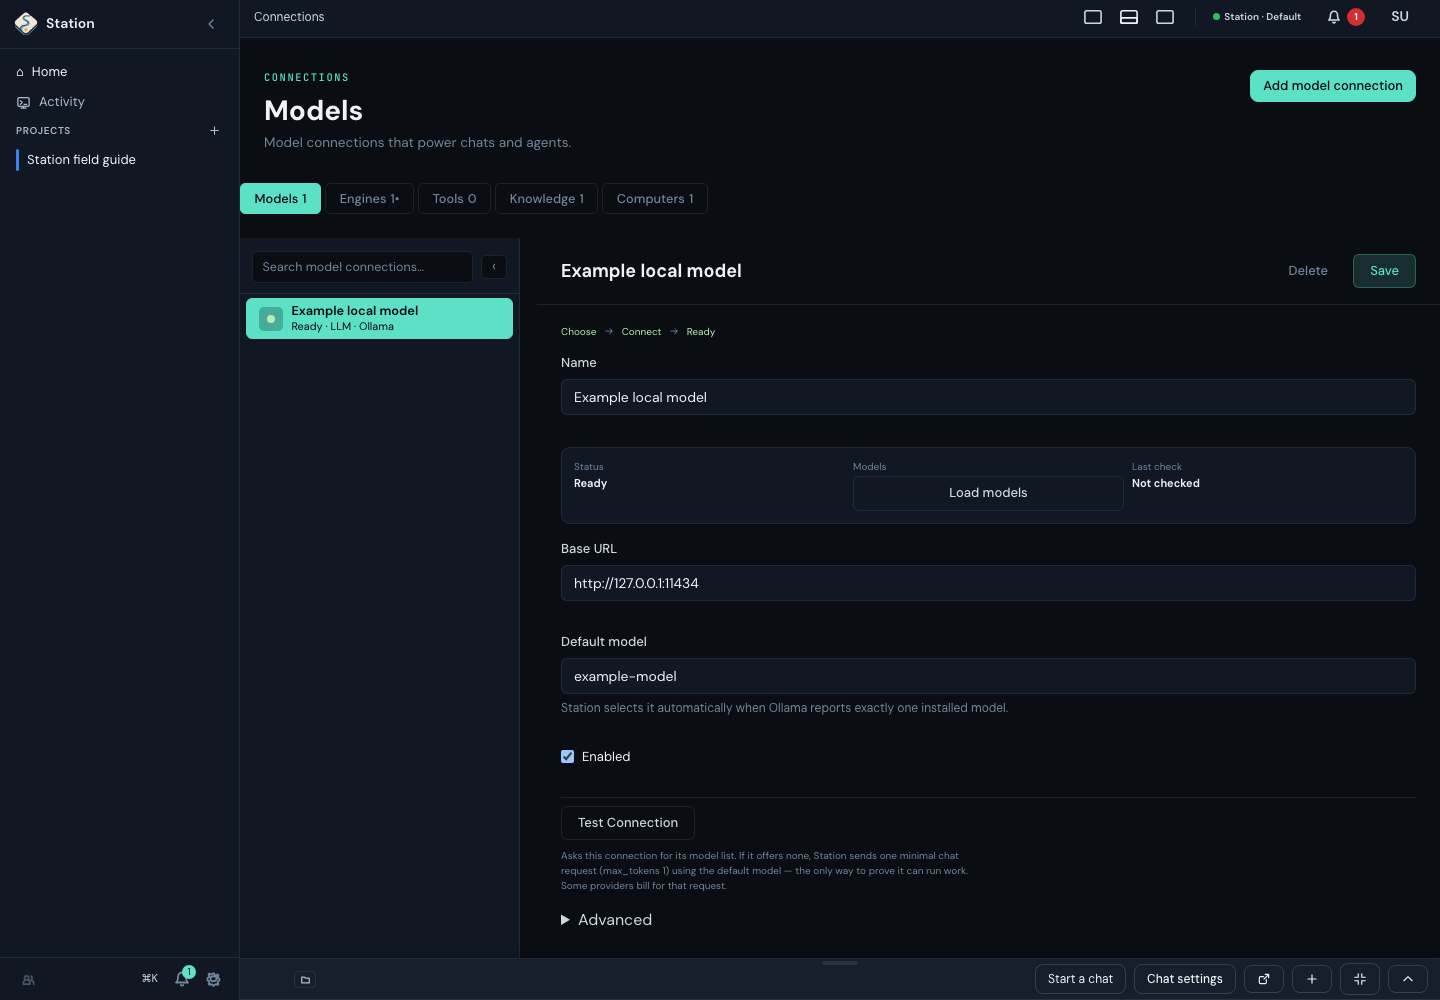
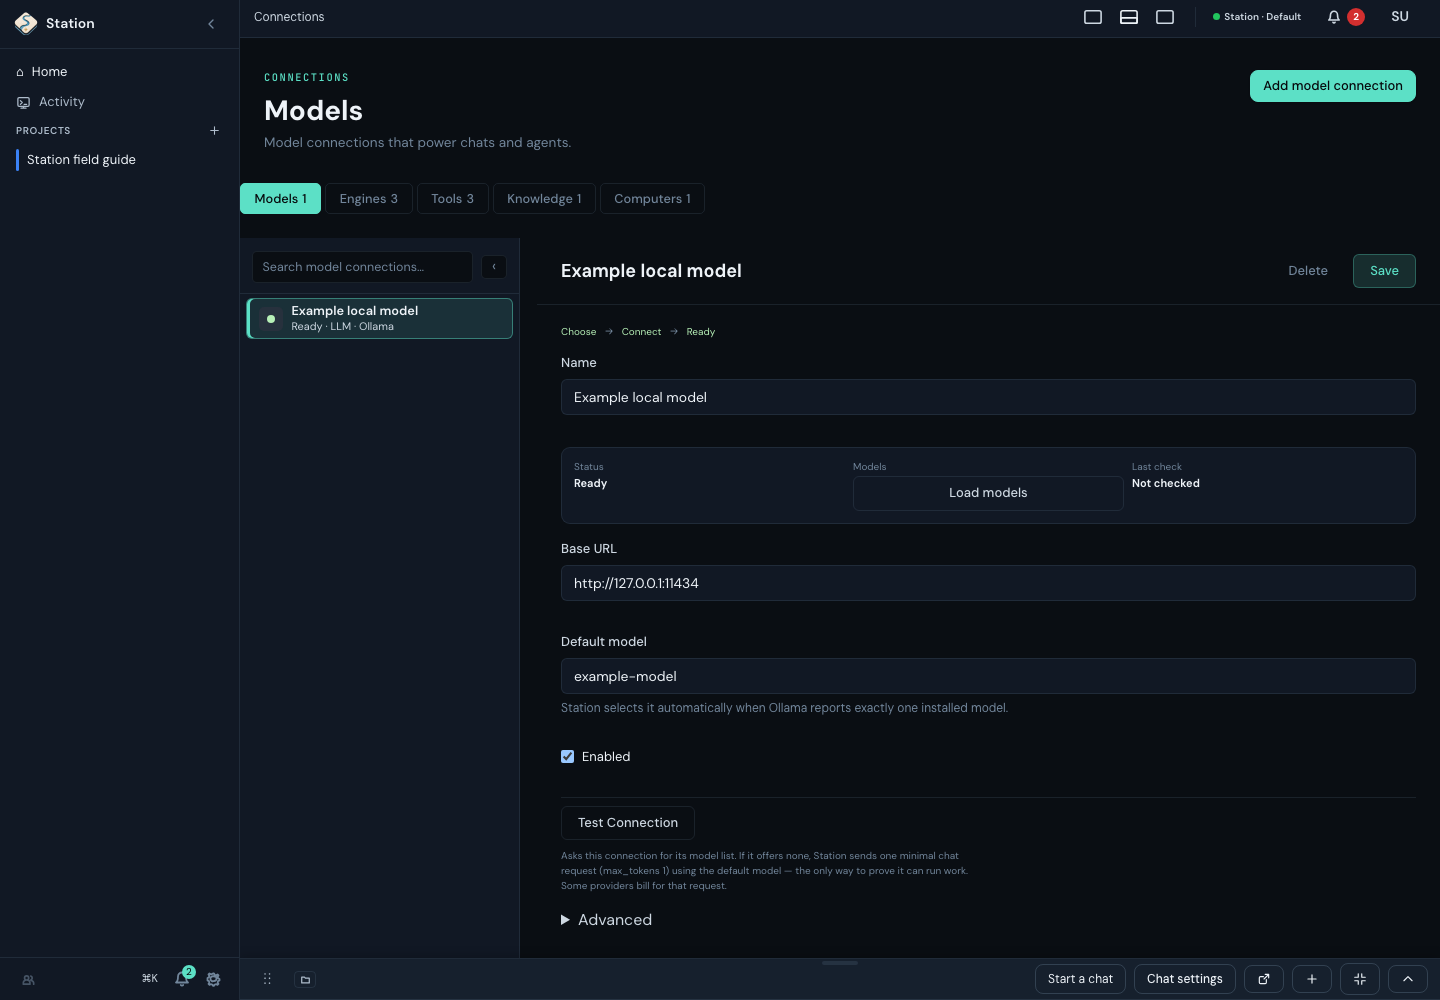
docs(learn): re-capture Connections > Models for the tinted selected row
The capture showed the old solid-accent selected row. Re-captured from the
lane build (bb07a2df8) with the same sample fixture shape (route-sampled
connection, project name and display name); its earlier review notes
described the previous image and are dropped with it. Also records the
measured hit-area limits in SplitPaneLayout.css.

Changed region(s): [[0.1562, 0.279, 0.375, 0.341], [0.3125, 0.186, 0.4062, 0.217], [0.4375, 0.186, 0.4688, 0.217]]

diff --git a/src-ui/src/components/SplitPaneLayout.css b/src-ui/src/components/SplitPaneLayout.css
@@ -791,6 +791,11 @@
  * it sits in is 44px tall, so the box never reaches a neighbouring row. None
  * of today's consumers draws an ::after or positions those controls; one that
  * starts to must reconcile it with this rule.
+ *
+ * Two limits, measured in the running Activity list: a control that clips its
+ * own overflow (the project pill's ellipsis) clips this box too, and two
+ * controls stacked in one 44px row cannot each own 44px. The fix for both is
+ * one trailing control per row, not a larger box.
  */
 @media (pointer: coarse) {
   .split-pane__item {
